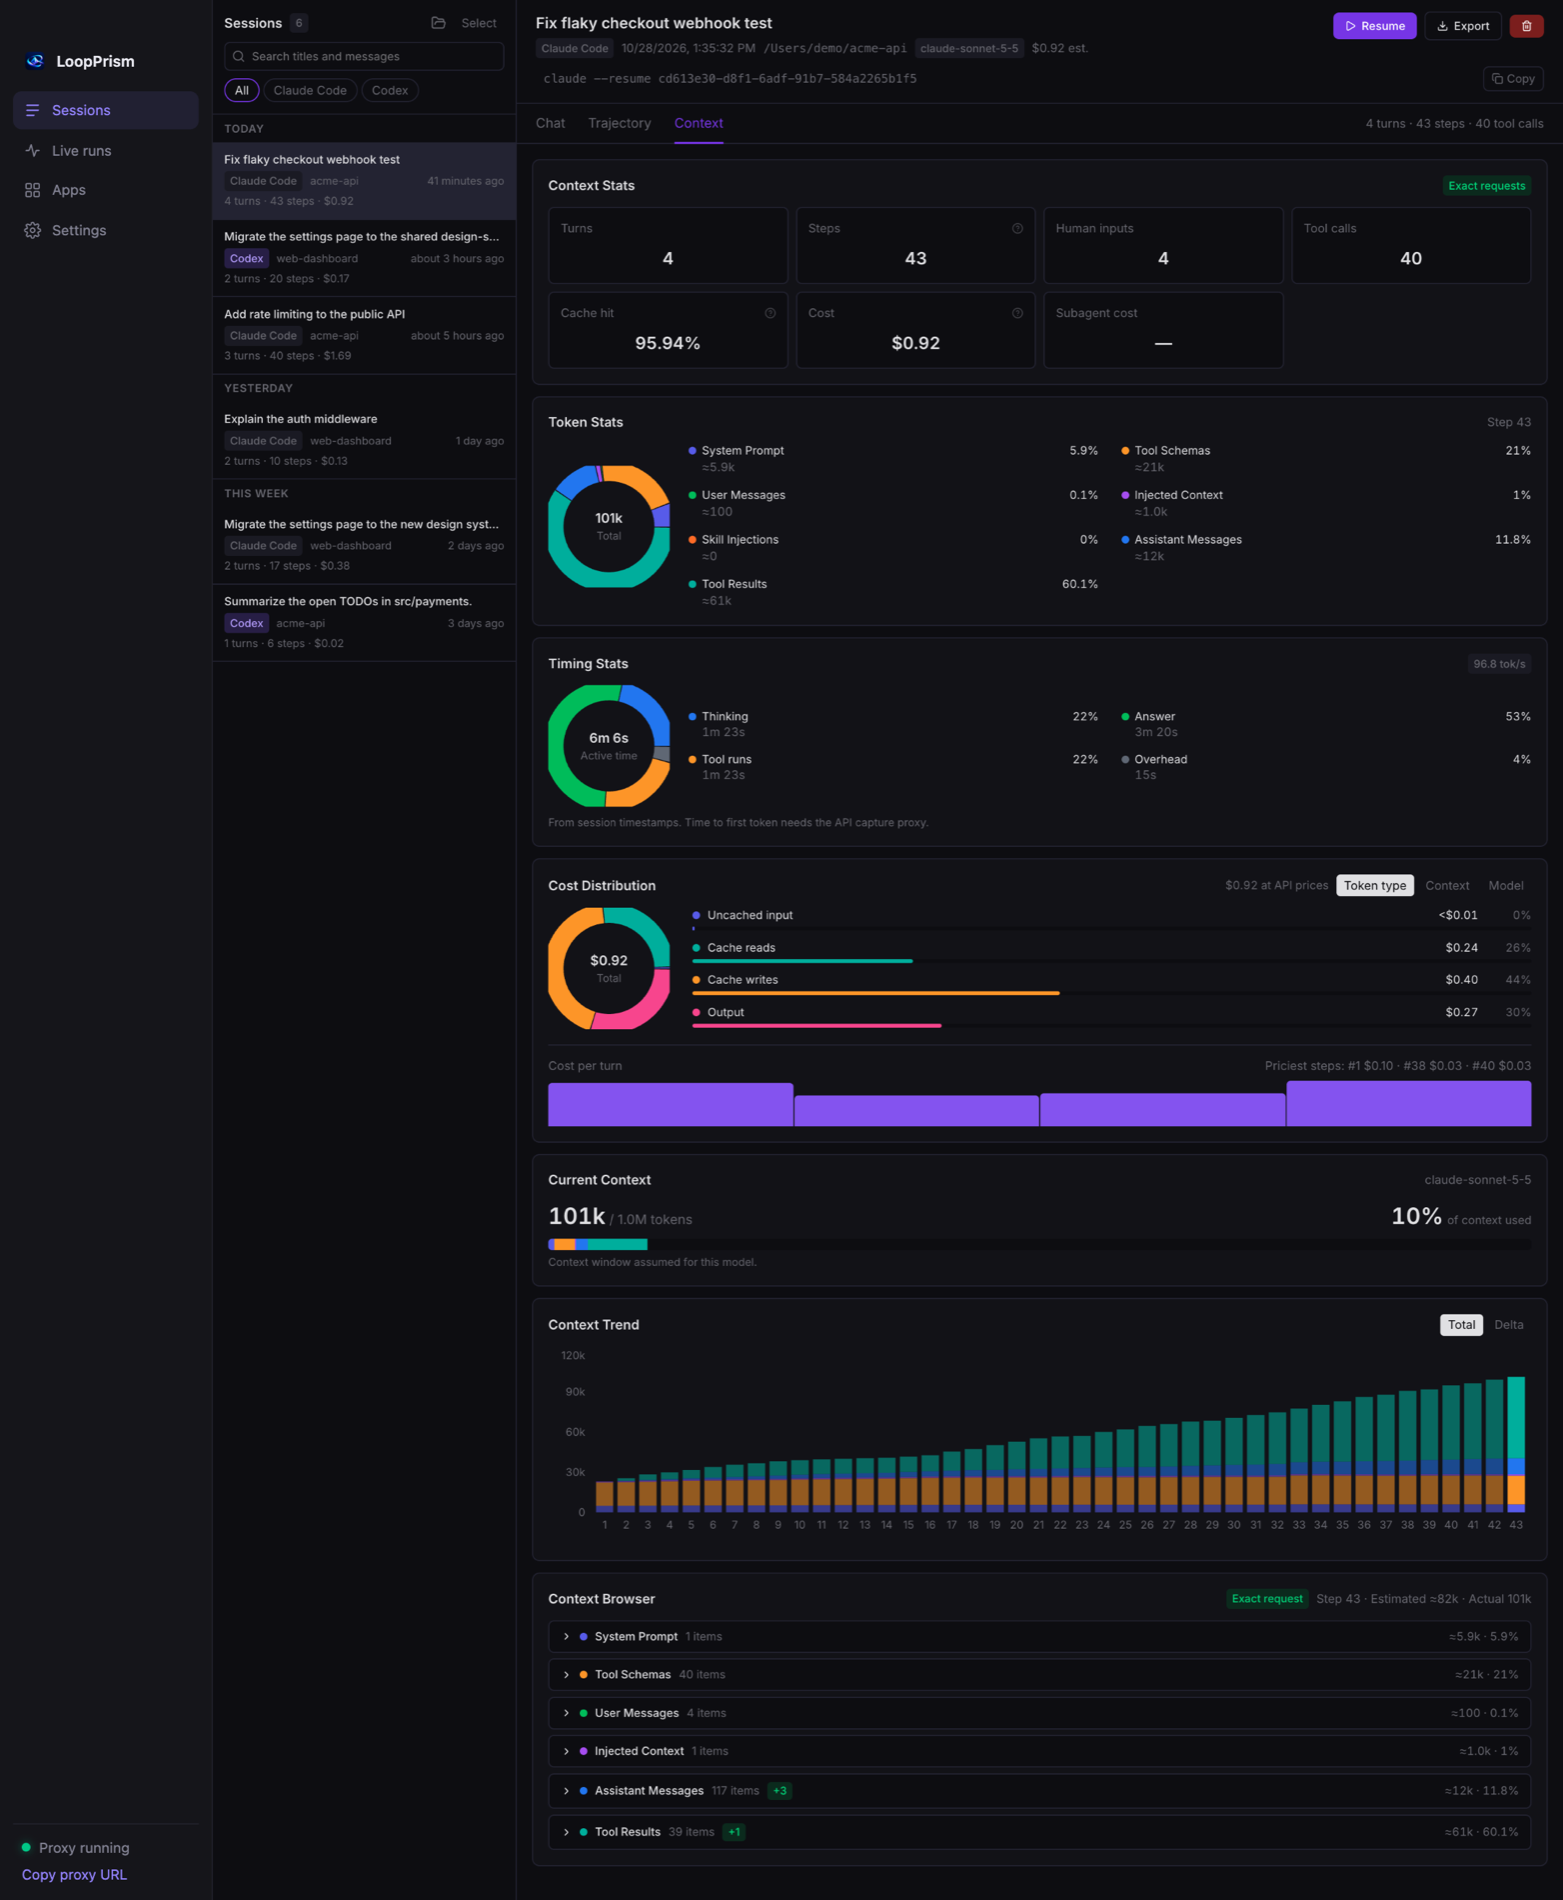
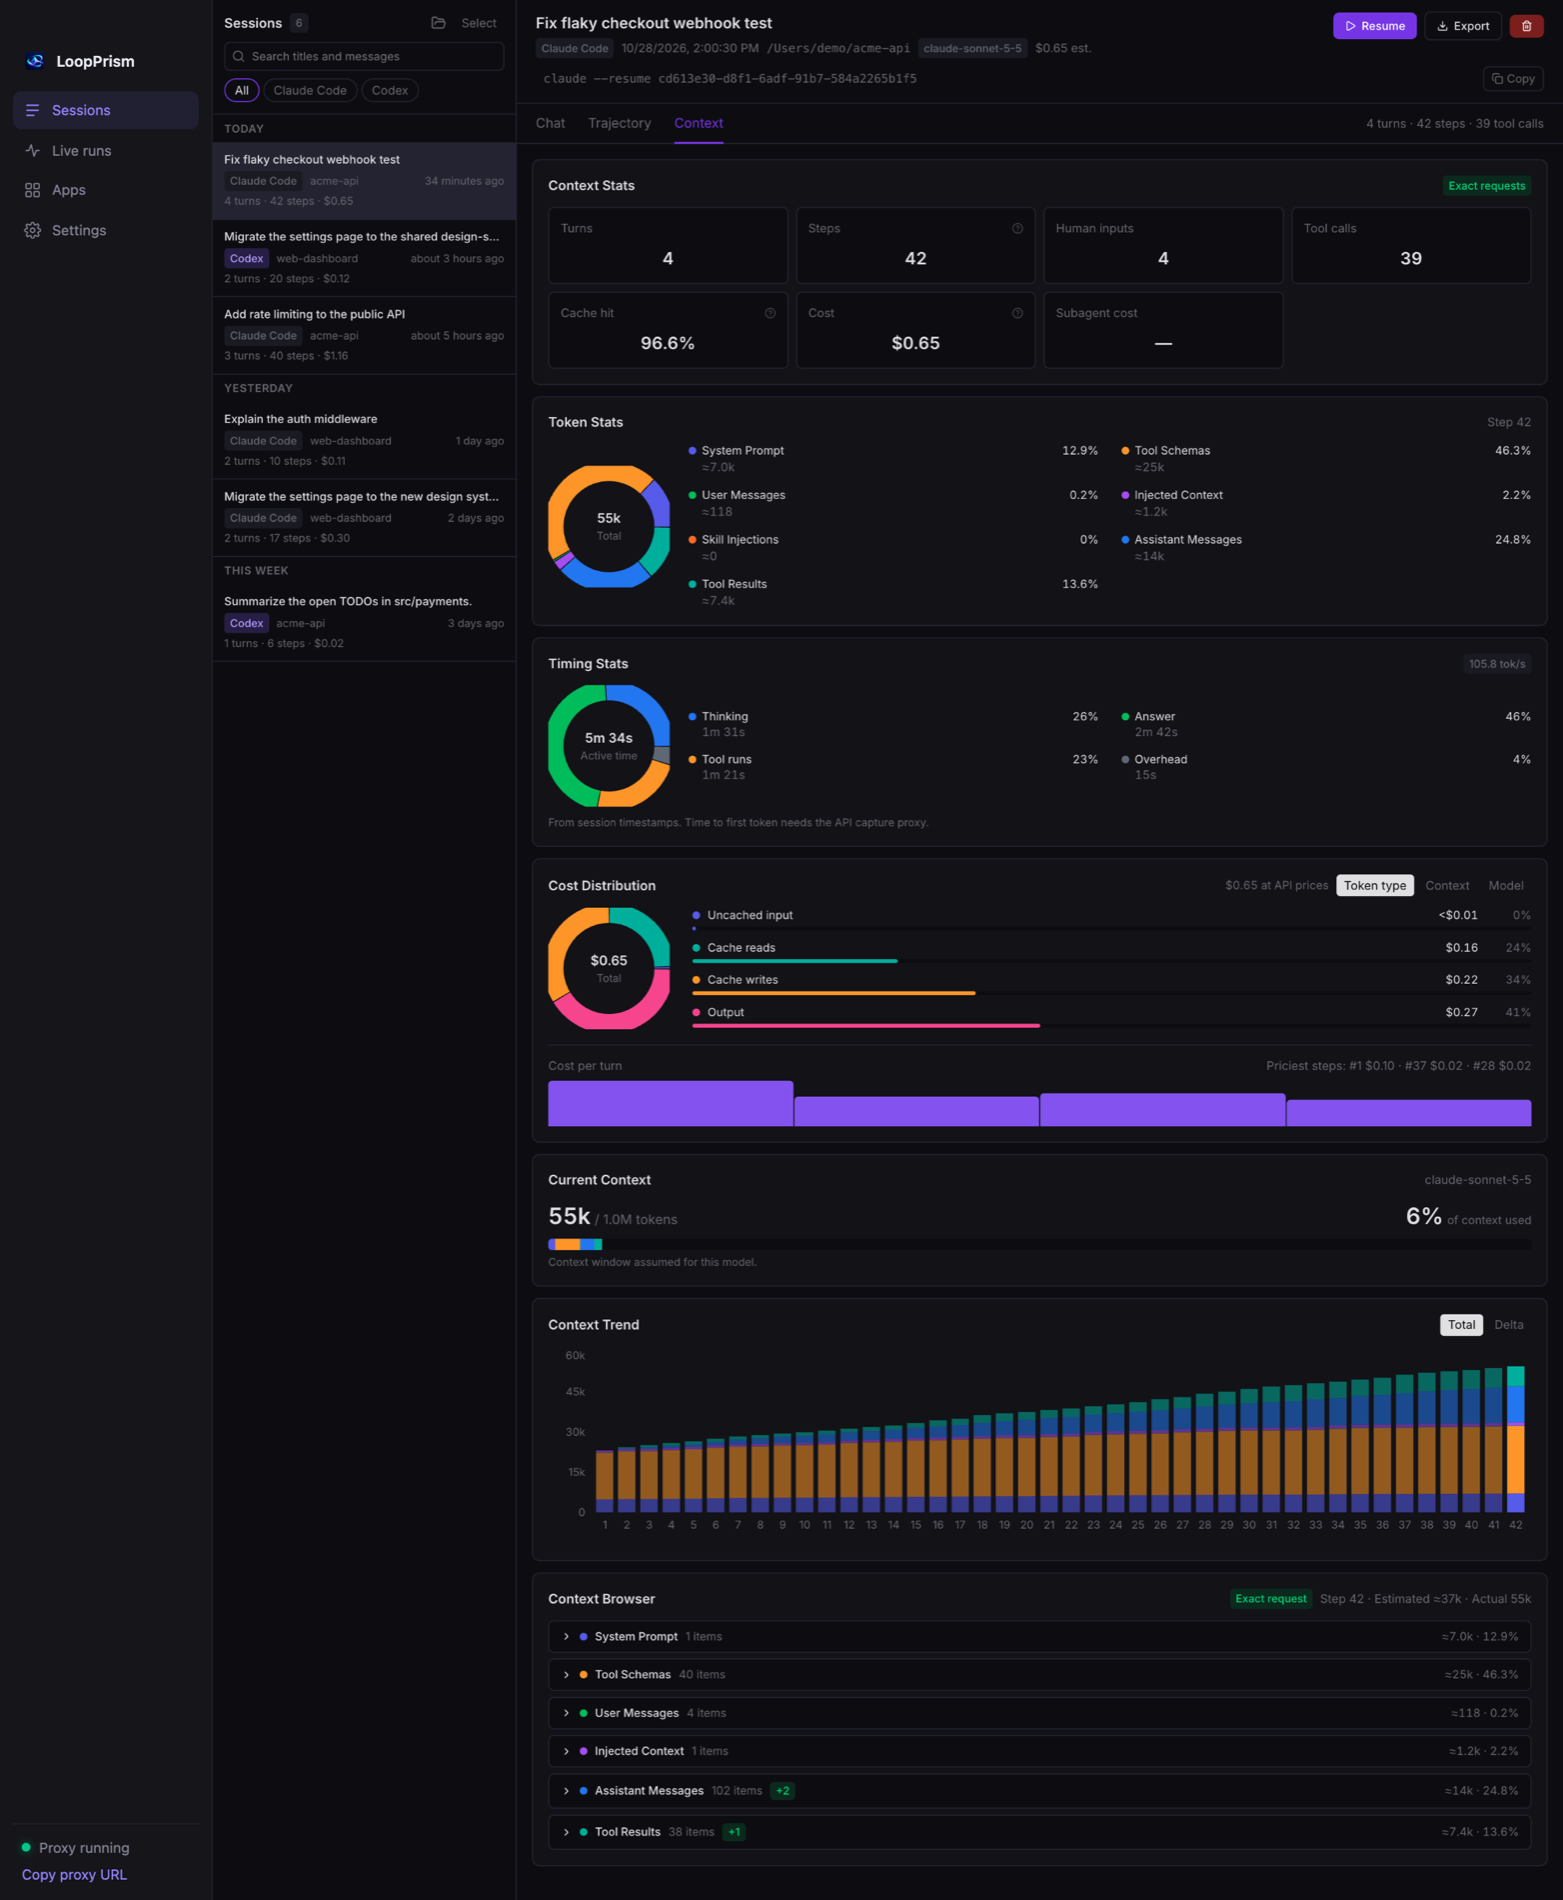
docs: refresh README screenshots with realistic demo conversation; drop API and architecture sections
The demo generator now writes a coherent conversation (narration, coherent code,
pytest output, per-turn summaries); the Chat screenshot shows an expanded tool
call. README no longer carries the REST API table or architecture diagrams.

diff --git a/scripts/make_demo_sessions.py b/scripts/make_demo_sessions.py
@@ -46,11 +46,111 @@ def iso(t: datetime) -> str:
     return t.strftime("%Y-%m-%dT%H:%M:%S.") + f"{t.microsecond // 1000:03d}Z"
 
 
+MODULE = """\
+import time
+
+from .errors import UnknownEvent
+from .results import Result
+
+HANDLERS = {}
+
+
+def handler(event_type):
+    def register(fn):
+        HANDLERS[event_type] = fn
+        return fn
+    return register
+
+
+def handle_event(event, *, db, clock=time.time):
+    \"\"\"Apply one webhook event exactly once.\"\"\"
+    key = f"{event['id']}:{event['type']}"
+    with db.transaction() as tx:
+        if tx.seen(key):
+            return Result.ignored(key)
+        fn = HANDLERS.get(event["type"])
+        if fn is None:
+            raise UnknownEvent(event["type"])
+        out = fn(event, tx=tx, now=clock())
+        tx.mark_seen(key)
+        return out
+
+
+@handler("charge.succeeded")
+def on_charge(event, *, tx, now):
+    charge = tx.charges.upsert(event["data"], received_at=now)
+    tx.ledger.credit(charge.account, charge.amount)
+    return Result.applied(charge.id)
+
+
+@handler("charge.refunded")
+def on_refund(event, *, tx, now):
+    charge = tx.charges.get(event["data"]["charge"])
+    tx.ledger.debit(charge.account, event["data"]["amount_refunded"])
+    return Result.applied(charge.id)
+"""
+
+
 def lines_of(n: int, rng: random.Random) -> str:
-    out = []
-    for i in range(n):
-        out.append(f"{i + 1:>4}  " + rng.choice(SNIPPET.splitlines()))
-    return "\n".join(out)
+    src = MODULE.splitlines()
+    start = rng.randint(0, max(0, len(src) - 12))
+    chunk = src[start:start + max(10, min(n, len(src)))]
+    return "\n".join(f"{start + i + 1:>4}  {line}" for i, line in enumerate(chunk))
+
+
+NARRATION = {
+    "Read": [
+        "I'll read {fp} to see how it handles repeated deliveries.",
+        "Let me open {fp}; the retry logic should be in there.",
+        "Reading {fp} first so I understand the current behavior before changing anything.",
+    ],
+    "Grep": [
+        "Searching for every caller of `handle_event` to see who relies on the current ordering.",
+        "Let me grep for where the idempotency key is written.",
+        "Checking which code paths touch the retry counter.",
+    ],
+    "Glob": [
+        "Listing the Python sources under `src/` to find the right module.",
+        "Let me see how the tests are laid out.",
+    ],
+    "Edit": [
+        "Found it: the retry re-applies the event before the idempotency key is recorded, so a slow first attempt and its retry can both charge. I'll record the key inside the same transaction.",
+        "The handler needs to check `tx.seen(key)` before running side effects. Making that change now.",
+        "I'll add jitter to the retry so replays stop colliding with the first attempt.",
+    ],
+    "Bash": [
+        "Running the webhook tests to confirm the behavior.",
+        "Let me run the focused test a few times to make sure it is no longer flaky.",
+        "Running the suite to check I did not break anything else.",
+    ],
+}
+
+SUMMARIES = [
+    "The flaky `test_replay` came from a race: a retried webhook could be applied twice because the idempotency key was written after the side effects.\n\nWhat I changed:\n- `src/payments/webhook.py`: the key is now checked and recorded inside one transaction, before any charge happens.\n- `src/payments/retry.py`: retries use jittered backoff, so a replay no longer lands on the first attempt.\n\nThe test passed 20 runs in a row.",
+    "Done. The retry path is idempotent now: `handle_event` ignores an event it has already recorded, and the retry helper reuses the same key.\n\nI left the public function signatures alone, so callers do not need to change.",
+    "Added `test_replay_does_not_double_charge`. It delivers the same event twice, concurrently, and asserts exactly one charge. It fails on the old code and passes now.",
+    "The full suite passes (212 tests). Summary of the change:\n- idempotency key recorded in the handler's transaction\n- jittered retry\n- one regression test for the double charge",
+]
+
+
+def narrate(tool: str, fp: str, rng: random.Random) -> str:
+    return rng.choice(NARRATION[tool]).format(fp=fp)
+
+
+def result_for(tool: str, inp: dict, rng: random.Random, failing: bool) -> str:
+    if failing:
+        return ("============ FAILURES ============\n____ test_replay ____\n"
+                "    assert charges(db) == 1\nE   AssertionError: expected 1 charge, got 2\n"
+                "tests/test_webhook.py:48: AssertionError\n1 failed, 4 passed in 1.31s")
+    if tool == "Bash":
+        return "....." + "\n5 passed in 0.94s"
+    if tool == "Glob":
+        return "\n".join(rng.sample(FILES, 6))
+    if tool == "Grep":
+        return "\n".join(f"{rng.choice(FILES)}:{rng.randint(8, 140)}:    {rng.choice(SNIPPET.splitlines()).strip()}" for _ in range(rng.randint(3, 7)))
+    if tool == "Edit":
+        return f"The file {inp.get('file_path')} has been updated."
+    return lines_of(rng.randint(30, 150), rng)
 
 
 class Clock:
@@ -132,22 +232,23 @@ def claude_session(root: str, project: str, title: str, prompts: list[str], mode
             last_step_of_turn = k == steps_per_turn - 1
             blocks: list[dict] = [{"type": "thinking", "thinking": "", "signature": "S" * rng.randint(300, 900)}]
             if last_step_of_turn:
-                text = rng.choice([
-                    "Done. The change is in place and the test-suite passes; I kept the diff small.",
-                    "That fixes it: the handler now de-duplicates on the event id before applying side effects.",
-                    "I traced the failure to the retry path and fixed it. Summary of the changes is above.",
-                ])
-                blocks.append({"type": "text", "text": text})
+                blocks.append({"type": "text", "text": SUMMARIES[turn % len(SUMMARIES)]})
             else:
-                tool = rng.choice(["Read", "Read", "Grep", "Edit", "Bash", "Glob"])
-                fp = rng.choice(FILES)
+                pos = k / max(1, steps_per_turn - 1)
+                if pos < 0.3:
+                    tool = rng.choice(["Glob", "Grep", "Read", "Read"])
+                elif pos < 0.75:
+                    tool = rng.choice(["Read", "Edit", "Edit", "Bash"])
+                else:
+                    tool = rng.choice(["Bash", "Bash", "Edit"])
+                fp = rng.choice(FILES[:3] if tool in ("Edit", "Bash") else FILES)
                 inp = {"Read": {"file_path": fp}, "Grep": {"pattern": "handle_event", "path": "src"},
                        "Edit": {"file_path": fp, "old_string": "retry(3)", "new_string": "retry(3, jitter=True)"},
                        "Bash": {"command": "pytest -x -q tests/test_webhook.py"}, "Glob": {"pattern": "src/**/*.py"}}[tool]
                 if loop and 8 < n_req < 15:
                     tool, inp = "Bash", {"command": "pytest -x -q tests/test_webhook.py"}
-                blocks.append({"type": "text", "text": f"Let me look at {fp}."} if rng.random() < 0.5 else {"type": "text", "text": ""})
-                blocks[-1] = blocks[-1] if blocks[-1]["text"] else {"type": "text", "text": "Checking the next piece."}
+                if rng.random() < 0.75:
+                    blocks.append({"type": "text", "text": narrate(tool, fp, rng)})
                 tool_id = f"toolu_{n_req:04d}"
                 blocks.append({"type": "tool_use", "id": tool_id, "name": tool, "input": inp})
             out_tok = int(estimate_text(json.dumps(blocks)) * 1.35) + rng.randint(80, 600)
@@ -166,10 +267,8 @@ def claude_session(root: str, project: str, title: str, prompts: list[str], mode
                 break
             if exact is False:
                 pass
-            res_text = lines_of(rng.randint(8, 160), rng)
             is_err = bool(loop and 8 < n_req < 15)
-            if is_err:
-                res_text = "FAILED tests/test_webhook.py::test_replay - AssertionError: expected 1 charge, got 2"
+            res_text = result_for(tool, inp, rng, is_err)
             rm = {"role": "user", "content": [{"type": "tool_result", "tool_use_id": tool_id, "content": res_text, "is_error": is_err}]}
             tool_t = clock.tick(0.2, 4.5, rng)
             rows.append(common({"type": "user", "uuid": str(uuid.uuid4()), "timestamp": iso(tool_t), "message": rm}))

diff --git a/README.md b/README.md
@@ -190,51 +190,6 @@ lprism proxy --verbose                        # debug logging
 </details>
 
 <details>
-<summary><b>REST API</b></summary>
-
-<br>
-
-| Endpoint | Description |
-|---|---|
-| `GET /api/sessions` | Claude Code / Codex sessions (`q`, `agent`, `project`) |
-| `GET /api/sessions/:id` | Details, stats and flagged patterns |
-| `GET /api/sessions/:id/events` | Trajectory events (`kinds`, `q`, `preview`) |
-| `GET /api/sessions/:id/trajectory` | Steps, turns, findings |
-| `GET /api/sessions/:id/context` · `/context/:step` | Context trend · one step's breakdown with items |
-| `GET /api/sessions/:id/cost` | Cost by token type, context, model and turn |
-| `GET /api/sessions/:id/timing` | Where the time went |
-| `GET /api/sessions/:id/export.md` | Markdown export |
-| `POST /api/sessions/:id/resume` · `/delete` | Resume in Terminal · move to the Trash |
-| `GET /api/traces` · `/api/traces/:id` | Live runs and MCP traces |
-| `GET /api/mcp-servers` · `/api/mcp-tools` | Per-server and per-tool stats |
-| `GET /api/cost/summary` · `/api/cost/trace/:id` | Cost overview · per trace |
-| `POST /api/ingest/events` | Agent hook events |
-| `GET /api/health` | Health check |
-
-</details>
-
-<details>
-<summary><b>Architecture</b></summary>
-
-<br>
-
-```
-Agent ──▶ LoopPrism Proxy ──▶ MCP Server
-              │
-              ├── intercepts JSON-RPC, records tool, args, latency
-              ├── writes to SQLite (~/.loopprism/traces.db)
-              └── serves the dashboard (http://localhost:8080)
-```
-
-![LoopPrism architecture, current state](docs/assets/architecture-current.png)
-
-![LoopPrism stages, built vs planned](docs/assets/architecture-stages.png)
-
-Data model: [docs/run-data-model.md](docs/run-data-model.md).
-
-</details>
-
-<details>
 <summary><b>Development</b></summary>
 
 <br>
